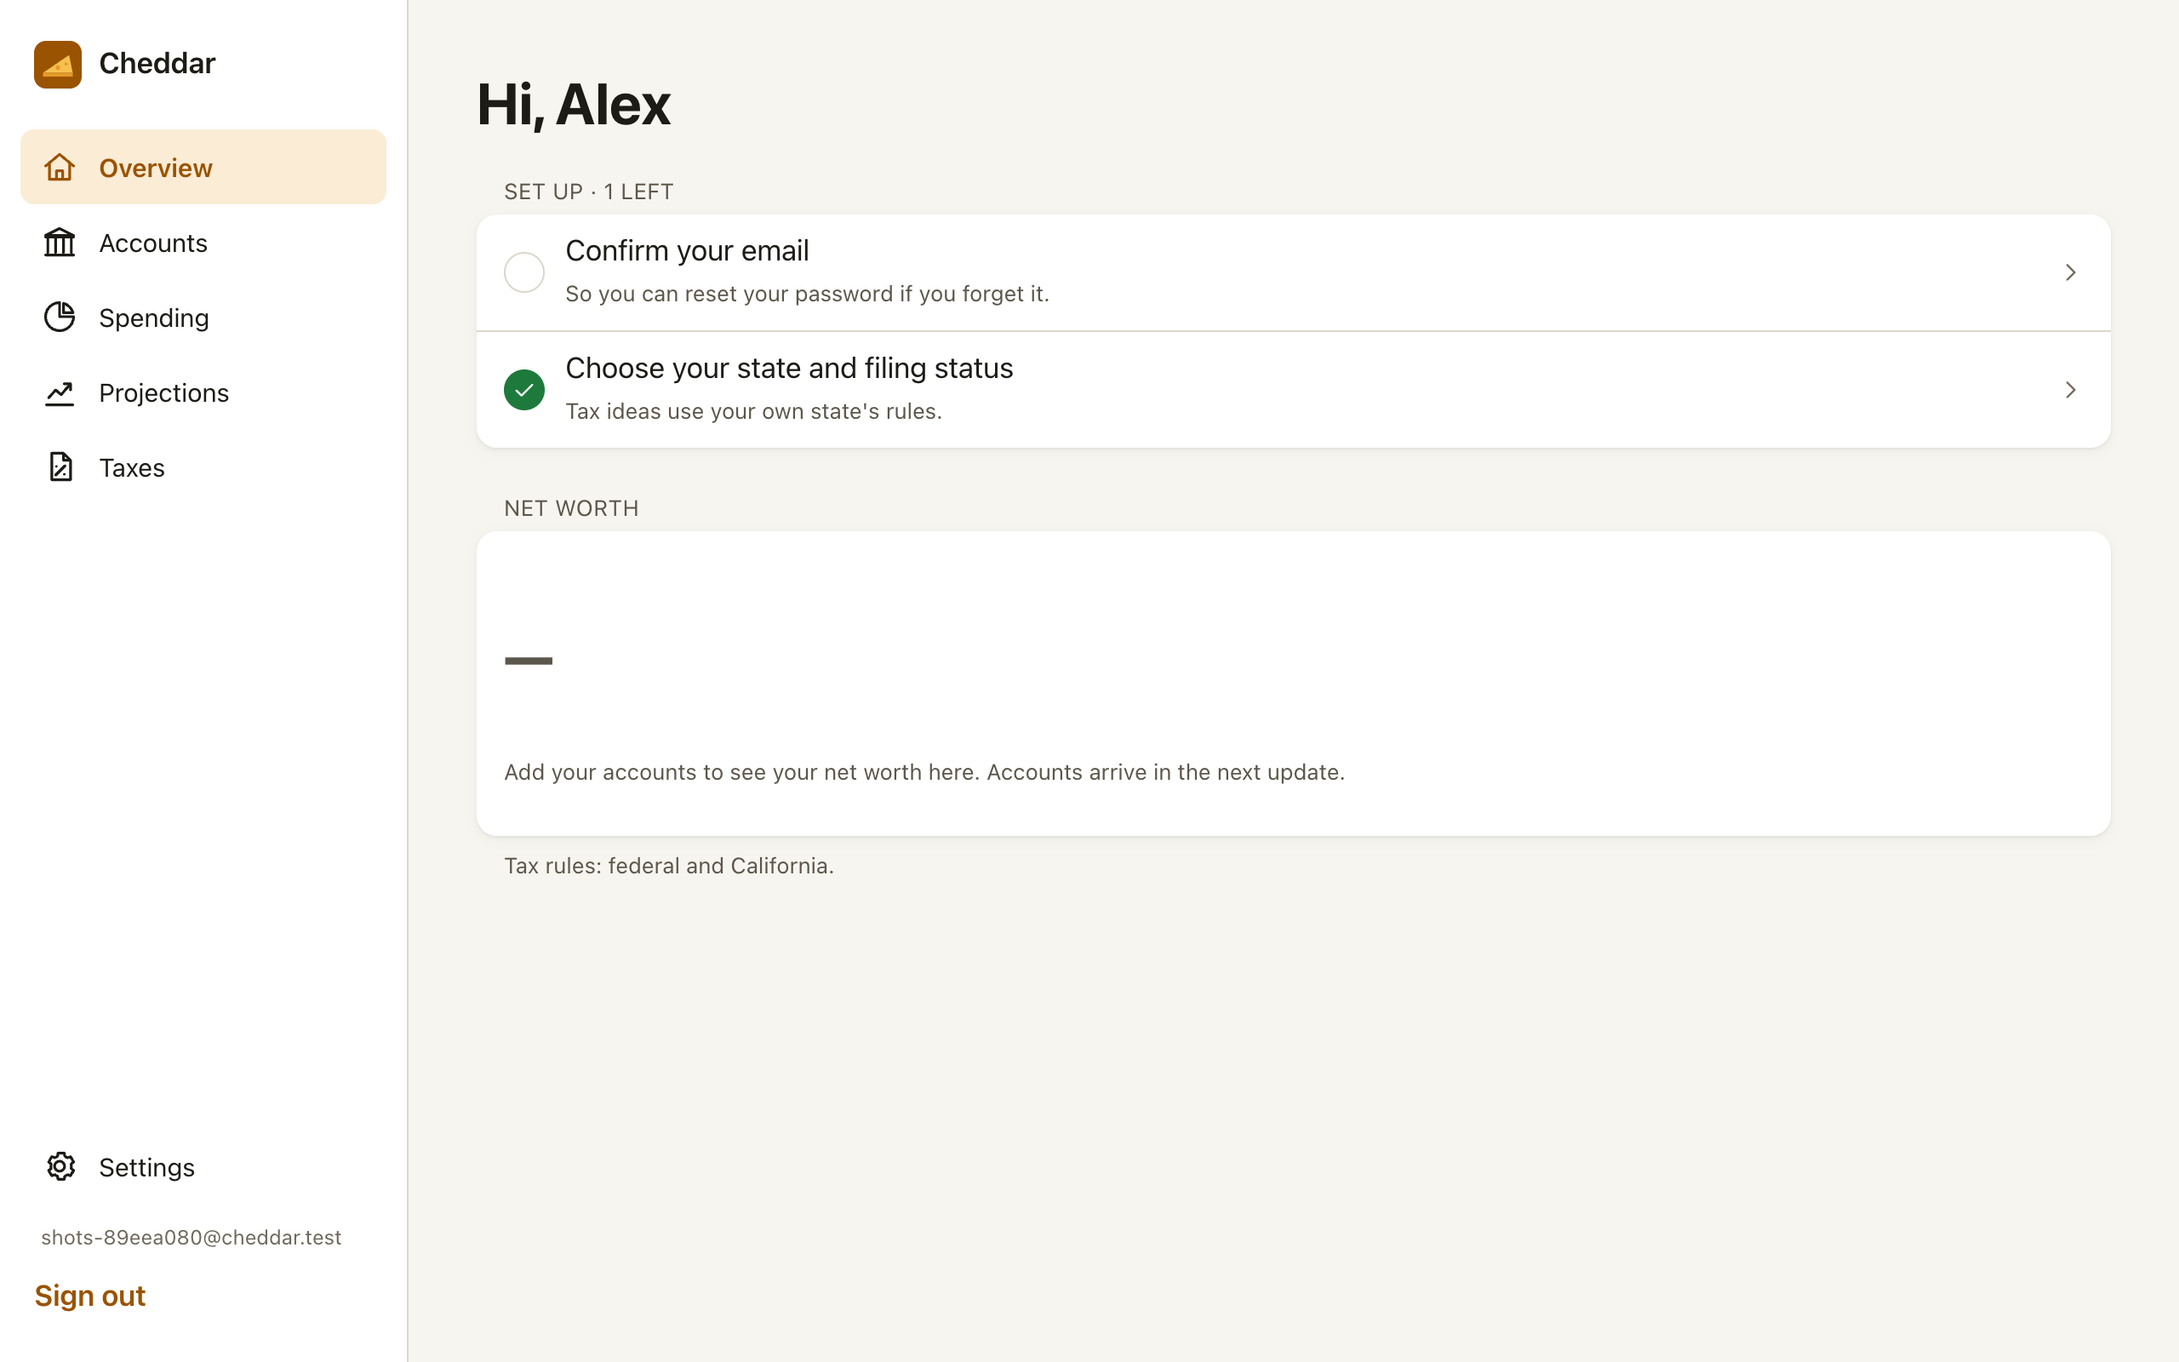
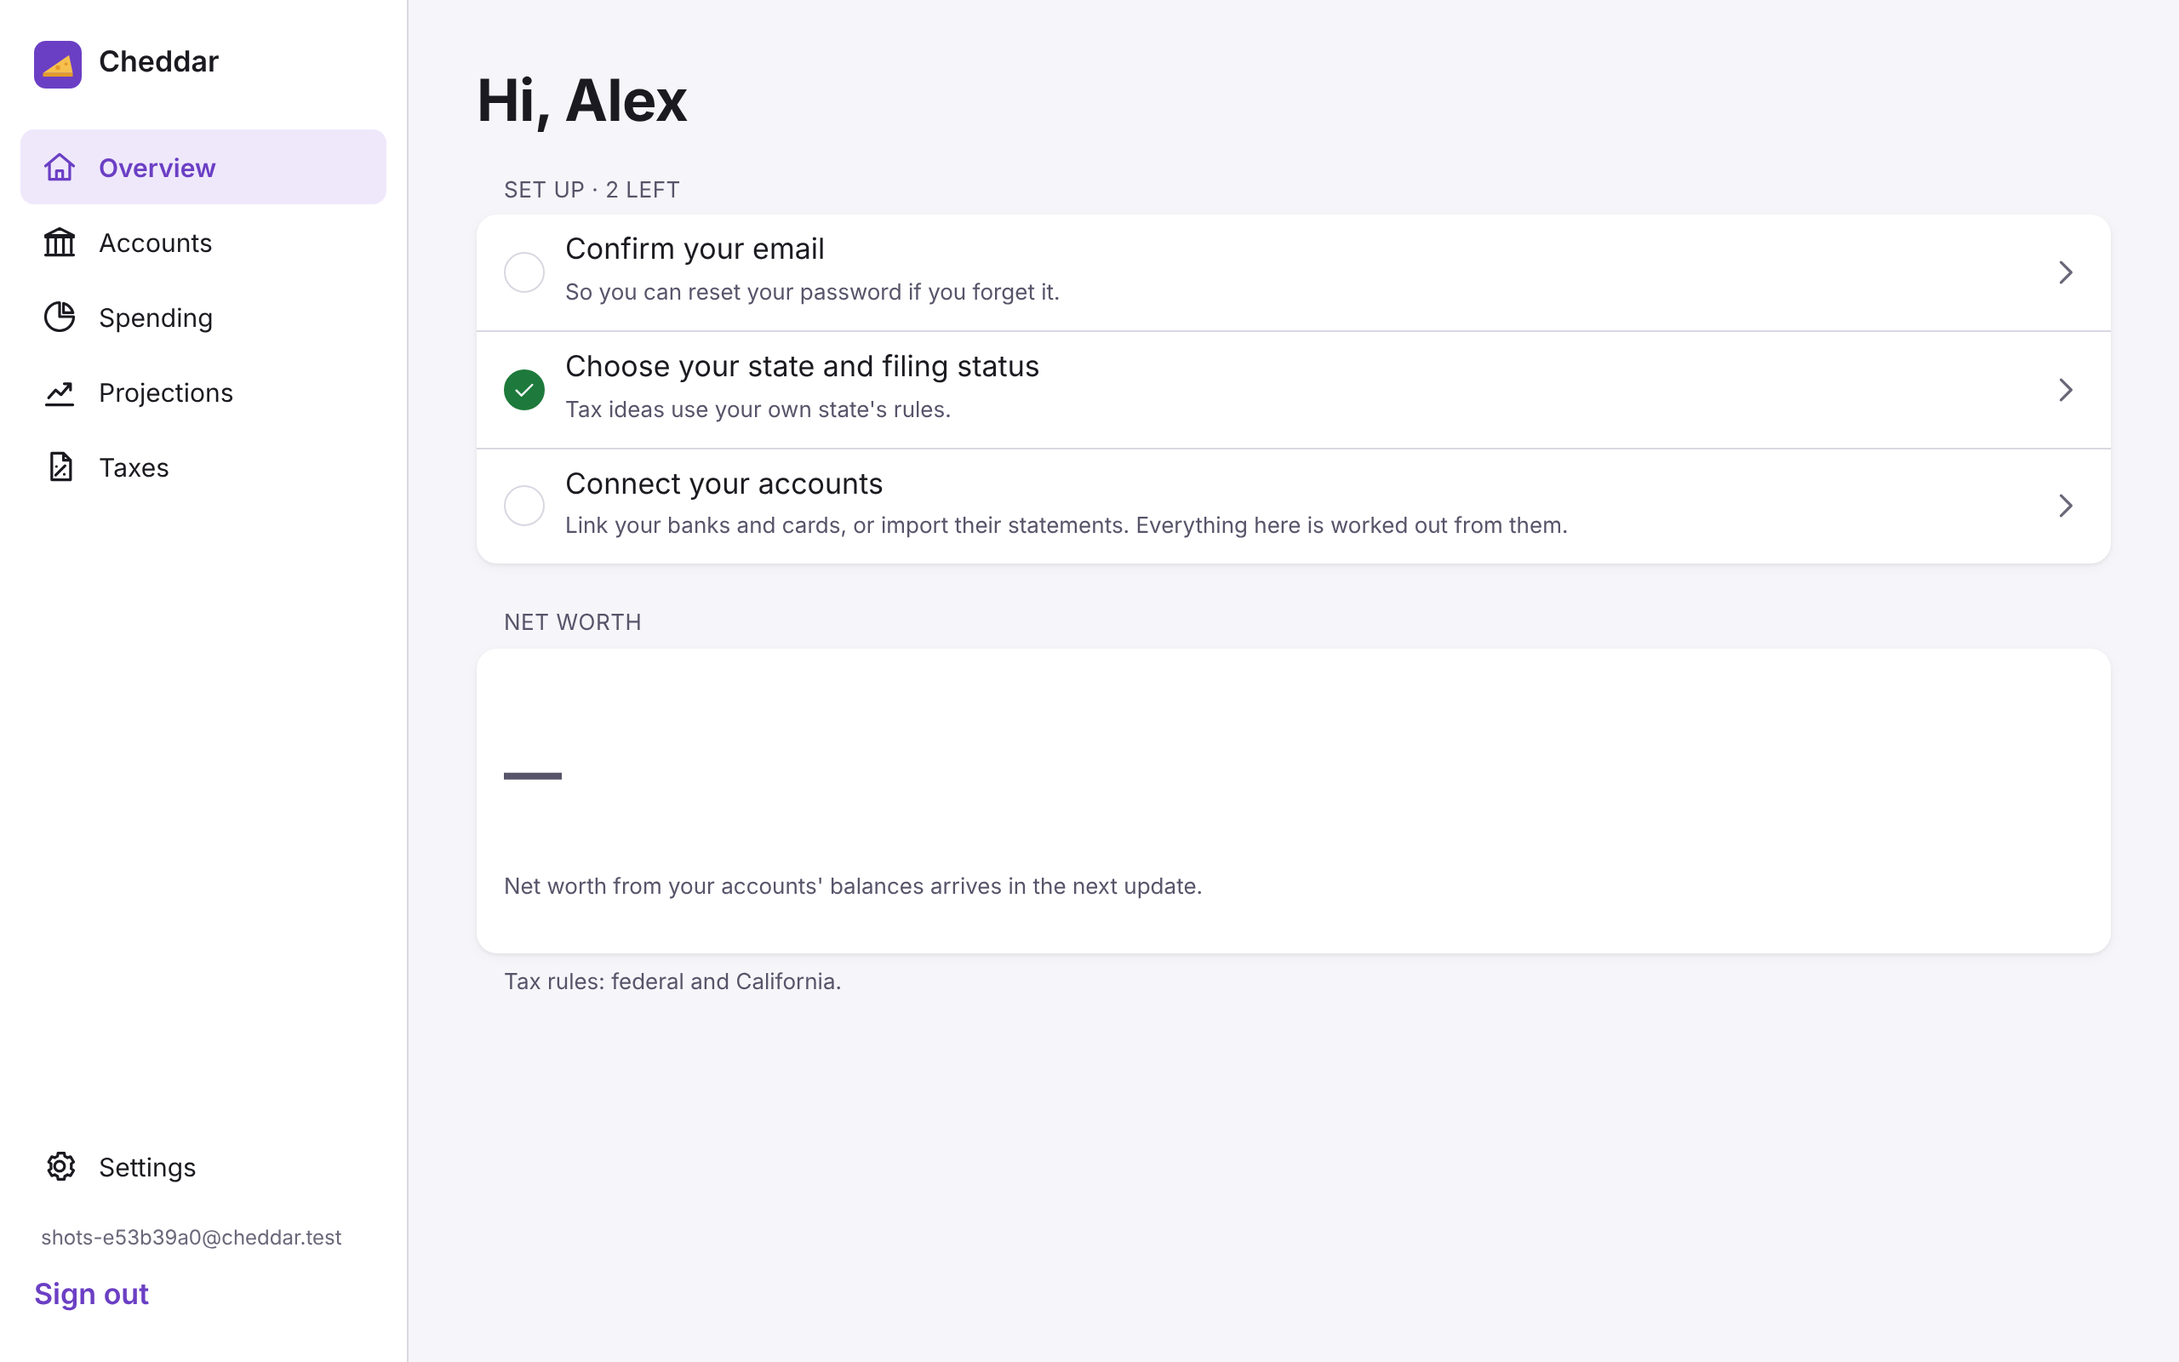
Switch the theme to violet, and let each person choose theme and light/dark (#14)
* Switch the theme from orange to violet

The accent, app icon tile and email buttons move from cheddar orange to a
violet (#6b3fc4 light, #b69cff dark) that sits apart from the red and green
of losses and gains. The warm neutrals become cool violet-greys to match.
Every text and accent pairing keeps at least 4.5:1 contrast in both modes.
Migration 0008 recolours the existing email templates.

Claude-Session: https://claude.ai/code/session_01GBPZ7fPvkqJNiJKyWXnBsk

* Let each person choose the theme and light or dark in Settings

Settings has a new Appearance section: Violet or Cheddar (the original
orange on warm greys), and Automatic, Light or Dark. Both are saved on the
user record (migration 0009), so every device matches, and the server's
render sets them on <html>, so nothing flashes. Each colour token is now a
light-dark() pair, so the appearance choice is just color-scheme. The logo
tile follows the theme. The segmented control moved to main.css for reuse.

Claude-Session: https://claude.ai/code/session_01GBPZ7fPvkqJNiJKyWXnBsk

---------

diff --git a/app/assets/css/main.css b/app/assets/css/main.css
@@ -5,55 +5,62 @@
  * use the tokens, never a literal.
  */
 
+/*
+ * Each token is light-dark(light, dark): the person's appearance setting
+ * (shared/theme.ts) sets color-scheme on <html>, and "system" leaves it to
+ * the device. Their colour theme is data-theme on <html>: violet is the
+ * default, cheddar the original orange on warm greys. Red and green (losses,
+ * gains) are the same in both. Every text pairing keeps 4.5:1 or more.
+ */
 :root {
   color-scheme: light dark;
 
-  --bg: #f7f5f0;            /* page ground (grouped background) */
-  --surface: #ffffff;       /* cards and grouped rows */
-  --surface-2: #efece4;     /* fills: inputs, pressed rows */
-  --separator: #dcd7cb;
-  --text: #1d1b16;
-  --text-2: #5c574b;        /* secondary labels */
-  --text-3: #6f695c;        /* tertiary: hints, placeholders */
-  --accent: #9a5300;        /* cheddar rind: links, tint, primary buttons */
-  --on-accent: #ffffff;
-  --accent-soft: #fbecd6;
-  --success: #1e7a3c;
-  --warning: #8a5a00;
-  --critical: #b3261e;
-  --on-critical: #ffffff;
-  --critical-soft: #fbe3e1;
-  --focus: #0a64d6;
+  --bg: light-dark(#f6f5f9, #141318);          /* page ground (grouped background) */
+  --surface: light-dark(#ffffff, #211f28);     /* cards and grouped rows */
+  --surface-2: light-dark(#ecebf1, #2d2a35);   /* fills: inputs, pressed rows */
+  --separator: light-dark(#d9d7e1, #3b3844);
+  --text: light-dark(#1b1a20, #f1eff6);
+  --text-2: light-dark(#58546a, #c1bdcc);      /* secondary labels */
+  --text-3: light-dark(#6b6779, #a39fb0);      /* tertiary: hints, placeholders */
+  --accent: light-dark(#6b3fc4, #b69cff);      /* links, tint, primary buttons */
+  --on-accent: light-dark(#ffffff, #1b1a20);
+  --accent-soft: light-dark(#efe8fb, #2e2547);
+  --mark-tile: #6b3fc4;                        /* the logo's tile (shared/mark.ts) */
+  --swatch-violet: light-dark(#6b3fc4, #b69cff); /* Settings' theme choice */
+  --swatch-cheddar: light-dark(#9a5300, #f2a93b);
+  --success: light-dark(#1e7a3c, #5ccf7f);
+  --warning: light-dark(#8a5a00, #e8b54a);
+  --critical: light-dark(#b3261e, #ff8a80);
+  --on-critical: light-dark(#ffffff, #1b1a20);
+  --critical-soft: light-dark(#fbe3e1, #3e1f22);
+  --focus: light-dark(#0a64d6, #6aa8ff);
 
   --radius: 12px;
   --radius-sm: 8px;
-  --shadow: 0 1px 2px rgb(0 0 0 / 6%), 0 2px 8px rgb(0 0 0 / 4%);
+  --shadow: 0 1px 2px light-dark(rgb(0 0 0 / 6%), transparent), 0 2px 8px light-dark(rgb(0 0 0 / 4%), transparent);
   --sidebar-w: 15rem;
   --tabbar-h: 3.25rem;
   --font: -apple-system, BlinkMacSystemFont, "SF Pro Text", "Segoe UI", Roboto, "Helvetica Neue", Arial, sans-serif;
   --font-num: ui-rounded, -apple-system, BlinkMacSystemFont, "SF Pro Rounded", var(--font);
 }
 
-@media (prefers-color-scheme: dark) {
-  :root {
-    --bg: #17150f;
-    --surface: #24211a;
-    --surface-2: #322e25;
-    --separator: #3e392e;
-    --text: #f3efe6;
-    --text-2: #c2bcae;
-    --text-3: #a59f91;
-    --accent: #f2a93b;
-    --on-accent: #1d1b16;
-    --accent-soft: #3b2c14;
-    --success: #5ccf7f;
-    --warning: #e8b54a;
-    --critical: #ff8a80;
-    --on-critical: #1d1b16;
-    --critical-soft: #3e1f1c;
-    --focus: #6aa8ff;
-    --shadow: none;
-  }
+:root[data-appearance="light"] { color-scheme: light; }
+:root[data-appearance="dark"] { color-scheme: dark; }
+
+:root[data-theme="cheddar"] {
+  --bg: light-dark(#f7f5f0, #17150f);
+  --surface: light-dark(#ffffff, #24211a);
+  --surface-2: light-dark(#efece4, #322e25);
+  --separator: light-dark(#dcd7cb, #3e392e);
+  --text: light-dark(#1d1b16, #f3efe6);
+  --text-2: light-dark(#5c574b, #c2bcae);
+  --text-3: light-dark(#6f695c, #a59f91);
+  --accent: light-dark(#9a5300, #f2a93b);
+  --on-accent: light-dark(#ffffff, #1d1b16);
+  --accent-soft: light-dark(#fbecd6, #3b2c14);
+  --mark-tile: #9a5300;
+  --on-critical: light-dark(#ffffff, #1d1b16);
+  --critical-soft: light-dark(#fbe3e1, #3e1f1c);
 }
 
 *, *::before, *::after { box-sizing: border-box; }
@@ -99,6 +106,14 @@ h1, h2, h3 { margin: 0; line-height: 1.2; }
   font-size: 0.8125rem; font-weight: 400; text-transform: uppercase;
   letter-spacing: 0.02em; color: var(--text-2);
 }
+/* A segmented control: buttons in a group, the chosen one aria-pressed. */
+.segmented { display: inline-flex; background: var(--surface-2); border-radius: var(--radius-sm); padding: 2px; }
+.seg {
+  min-height: 2.25rem; padding: 0.25rem 0.875rem; border: 0; border-radius: 6px;
+  font: inherit; font-size: 0.9375rem; background: none; color: var(--text); cursor: pointer;
+}
+.seg[aria-pressed="true"] { background: var(--surface); font-weight: 600; box-shadow: var(--shadow); }
+
 .group-footer { margin: 0.5rem 1rem 0; font-size: 0.8125rem; color: var(--text-2); }
 .card {
   background: var(--surface); border-radius: var(--radius); box-shadow: var(--shadow);

diff --git a/app/components/settings/SettingsAppearance.vue b/app/components/settings/SettingsAppearance.vue
@@ -1,0 +1,56 @@
+<script setup lang="ts">
+import type { Profile } from '~~/shared/profile'
+import { APPEARANCES, THEMES } from '~~/shared/theme'
+
+const { me } = useAuth()
+const { error, run } = useAction()
+
+/** Shows the choice at once, saves it, and puts the old one back if saving fails. */
+async function choose(change: Partial<Pick<Profile, 'theme' | 'appearance'>>) {
+  if (!me.value) return
+  const before = me.value
+  me.value = { ...before, ...change }
+  const r = await run(() => $fetch('/api/profile', { method: 'PATCH', body: change }))
+  if (r) me.value = r.me
+  else me.value = before
+}
+</script>
+
+<template>
+  <section class="group" aria-labelledby="appearance-title">
+    <h2 id="appearance-title" class="group-title">Appearance</h2>
+    <div class="card">
+      <div class="row">
+        <span id="theme-label" class="row-label">Color</span>
+        <div class="segmented" role="group" aria-labelledby="theme-label">
+          <button
+            v-for="t in THEMES" :key="t.value" type="button" class="seg"
+            :aria-pressed="me?.theme === t.value" @click="choose({ theme: t.value })"
+          >
+            <span class="swatch" :class="`swatch-${t.value}`" aria-hidden="true" />{{ t.label }}
+          </button>
+        </div>
+      </div>
+      <div class="row">
+        <span id="appearance-label" class="row-label">Light or dark</span>
+        <div class="segmented" role="group" aria-labelledby="appearance-label">
+          <button
+            v-for="a in APPEARANCES" :key="a.value" type="button" class="seg"
+            :aria-pressed="me?.appearance === a.value" @click="choose({ appearance: a.value })"
+          >
+            {{ a.label }}
+          </button>
+        </div>
+      </div>
+    </div>
+    <p v-if="error" class="notice notice-error" role="alert">{{ error }}</p>
+    <p class="group-footer">Saved to your account, so Cheddar looks the same on every device you sign in on. Automatic follows your device.</p>
+  </section>
+</template>
+
+<style scoped>
+.row { flex-wrap: wrap; gap: 0.5rem; }
+.swatch { display: inline-block; width: 0.75rem; height: 0.75rem; margin-right: 0.375rem; border-radius: 50%; vertical-align: -0.0625rem; }
+.swatch-violet { background: var(--swatch-violet); }
+.swatch-cheddar { background: var(--swatch-cheddar); }
+</style>

diff --git a/shared/profile.ts b/shared/profile.ts
@@ -1,11 +1,14 @@
 import { isFilingStatus, type FilingStatus } from './filing-status.ts'
 import { stateByCode } from './states.ts'
+import { isAppearance, isTheme, type Appearance, type Theme } from './theme.ts'
 
 /** What a person tells Cheddar about themselves; '' is "not chosen yet". */
 export interface Profile {
   name: string
   state: string
   filing_status: FilingStatus | ''
+  theme: Theme
+  appearance: Appearance
 }
 
 /** The signed-in person, as the browser is told about them. */
@@ -38,6 +41,14 @@ export function checkProfile(input: Record<string, unknown>): { ok: Partial<Prof
   if ('filing_status' in input) {
     if (input.filing_status !== '' && !isFilingStatus(input.filing_status)) return { problem: 'Choose a filing status.' }
     ok.filing_status = input.filing_status as FilingStatus | ''
+  }
+  if ('theme' in input) {
+    if (!isTheme(input.theme)) return { problem: 'Choose a color theme.' }
+    ok.theme = input.theme
+  }
+  if ('appearance' in input) {
+    if (!isAppearance(input.appearance)) return { problem: 'Choose light, dark or automatic.' }
+    ok.appearance = input.appearance
   }
   return { ok }
 }

diff --git a/shared/theme.ts b/shared/theme.ts
@@ -1,0 +1,25 @@
+/**
+ * How Cheddar looks for one person: a colour theme and light or dark. Both are
+ * saved on their account (users.theme, users.appearance), so every device
+ * they sign in on looks the same. '' on the record is the default.
+ * The colours themselves are in app/assets/css/main.css.
+ */
+export const THEMES = [
+  { value: 'violet', label: 'Violet' },
+  { value: 'cheddar', label: 'Cheddar' },
+] as const
+
+export const APPEARANCES = [
+  { value: 'system', label: 'Automatic' },
+  { value: 'light', label: 'Light' },
+  { value: 'dark', label: 'Dark' },
+] as const
+
+export type Theme = typeof THEMES[number]['value']
+export type Appearance = typeof APPEARANCES[number]['value']
+
+export const DEFAULT_THEME: Theme = 'violet'
+export const DEFAULT_APPEARANCE: Appearance = 'system'
+
+export const isTheme = (v: unknown): v is Theme => THEMES.some(t => t.value === v)
+export const isAppearance = (v: unknown): v is Appearance => APPEARANCES.some(a => a.value === v)

diff --git a/server/api/profile.patch.ts b/server/api/profile.patch.ts
@@ -2,11 +2,11 @@ import { updateProfile } from '~~/server/data/profile'
 import { attempt, sessionFor } from '~~/server/data/session'
 import { checkProfile, type Profile } from '~~/shared/profile'
 
-/** PATCH /api/profile { name?, state?, filing_status? }: the caller's own profile. */
+/** PATCH /api/profile { name?, state?, filing_status?, theme?, appearance? }: the caller's own profile. */
 export default defineEventHandler(async (event) => {
   assertSameOrigin(event)
   const s = sessionFor(event)
-  const body = await readFields<Profile>(event, ['name', 'state', 'filing_status'])
+  const body = await readFields<Profile>(event, ['name', 'state', 'filing_status', 'theme', 'appearance'])
   const checked = checkProfile(body)
   if ('problem' in checked) throw createError({ statusCode: 400, statusMessage: checked.problem })
   return { me: await attempt(() => updateProfile(s, checked.ok)) }

diff --git a/app/pages/spending.vue b/app/pages/spending.vue
@@ -316,12 +316,6 @@ const day = (ymd: string) => new Date(`${ymd}T12:00:00`).toLocaleDateString(unde
 .pager { justify-content: space-between; align-items: center; margin-top: 0.5rem; }
 
 .period { justify-content: space-between; flex-wrap: wrap; }
-.segmented { display: inline-flex; background: var(--surface-2); border-radius: var(--radius-sm); padding: 2px; }
-.seg {
-  min-height: 2.25rem; padding: 0.25rem 0.875rem; border: 0; border-radius: 6px;
-  font: inherit; font-size: 0.9375rem; background: none; color: var(--text); cursor: pointer;
-}
-.seg[aria-pressed="true"] { background: var(--surface); font-weight: 600; box-shadow: var(--shadow); }
 .stepper { display: inline-flex; align-items: center; gap: 0.25rem; }
 .when { min-width: 9.5rem; text-align: center; }
 .back { transform: rotate(180deg); }

diff --git a/nuxt.config.ts b/nuxt.config.ts
@@ -23,8 +23,8 @@ export default defineNuxtConfig({
         { rel: 'apple-touch-icon', href: '/icons/apple-touch-icon.png' },
       ],
       meta: [
-        { name: 'theme-color', content: '#F7F5F0', media: '(prefers-color-scheme: light)' },
-        { name: 'theme-color', content: '#17150F', media: '(prefers-color-scheme: dark)' },
+        { name: 'theme-color', content: '#F6F5F9', media: '(prefers-color-scheme: light)' },
+        { name: 'theme-color', content: '#141318', media: '(prefers-color-scheme: dark)' },
         { name: 'mobile-web-app-capable', content: 'yes' },
         { name: 'apple-mobile-web-app-capable', content: 'yes' },
         { name: 'apple-mobile-web-app-title', content: 'Cheddar' },

diff --git a/app/app.vue b/app/app.vue
@@ -1,5 +1,17 @@
 <script setup lang="ts">
-useHead({ titleTemplate: title => (title ? `${title} · Cheddar` : 'Cheddar') })
+import { DEFAULT_APPEARANCE, DEFAULT_THEME } from '~~/shared/theme'
+
+const { me } = useAuth()
+
+// The person's own theme and light or dark (Settings, Appearance); signed
+// out, the defaults. Set on <html> in the server's render, so nothing flashes.
+useHead({
+  titleTemplate: title => (title ? `${title} · Cheddar` : 'Cheddar'),
+  htmlAttrs: {
+    'data-theme': () => me.value?.theme ?? DEFAULT_THEME,
+    'data-appearance': () => me.value?.appearance ?? DEFAULT_APPEARANCE,
+  },
+})
 </script>
 
 <template>

diff --git a/nginx/unavailable.html b/nginx/unavailable.html
@@ -14,9 +14,9 @@
   <meta name="color-scheme" content="light dark">
   <title>Back in a moment · Cheddar</title>
   <style>
-    :root { --ground: #f7f5f0; --card: #ffffff; --text: #1d1b16; --muted: #5c574b; --border: #dcd7cb; }
+    :root { --ground: #f6f5f9; --card: #ffffff; --text: #1b1a20; --muted: #58546a; --border: #d9d7e1; }
     @media (prefers-color-scheme: dark) {
-      :root { --ground: #17150f; --card: #24211a; --text: #f3efe6; --muted: #c2bcae; --border: #3e392e; }
+      :root { --ground: #141318; --card: #211f28; --text: #f1eff6; --muted: #c1bdcc; --border: #3b3844; }
     }
     * { box-sizing: border-box; }
     body {

diff --git a/server/data/profile.ts b/server/data/profile.ts
@@ -1,5 +1,6 @@
 import type { RecordModel } from 'pocketbase'
 import type { Me, Profile } from '~~/shared/profile'
+import { DEFAULT_APPEARANCE, DEFAULT_THEME, isAppearance, isTheme } from '~~/shared/theme'
 import { callerId, type Session } from './session'
 
 export function toMe(r: RecordModel): Me {
@@ -11,6 +12,8 @@ export function toMe(r: RecordModel): Me {
     name: r.name ?? '',
     state: r.state ?? '',
     filing_status: r.filing_status ?? '',
+    theme: isTheme(r.theme) ? r.theme : DEFAULT_THEME,
+    appearance: isAppearance(r.appearance) ? r.appearance : DEFAULT_APPEARANCE,
   }
 }
 

diff --git a/app/components/app/AppMark.vue b/app/components/app/AppMark.vue
@@ -4,7 +4,8 @@ import { MARK_COLOURS as C, WEDGE } from '~~/shared/mark'
 
 <template>
   <svg viewBox="0 0 32 32" width="28" height="28" aria-hidden="true">
-    <rect width="32" height="32" rx="8" :fill="C.tile" />
+    <!-- The tile follows the person's colour theme; the icon files use C.tile. -->
+    <rect width="32" height="32" rx="8" :fill="C.tile" style="fill: var(--mark-tile)" />
     <path v-for="p in WEDGE.paths" :key="p.d" :d="p.d" :fill="C[p.fill]" />
     <circle v-for="h in WEDGE.holes" :key="h.cx" :cx="h.cx" :cy="h.cy" :r="h.r" :fill="C[h.fill]" />
   </svg>

diff --git a/shared/mark.ts b/shared/mark.ts
@@ -2,7 +2,7 @@
  * Cheddar's mark, a wedge of cheese, on a 32-unit grid: drawn by AppMark in
  * the app and by scripts/make-icons.mjs for the favicon and Home Screen icons.
  */
-export const MARK_COLOURS = { tile: '#9a5300', cheese: '#f6c04f', rind: '#e39a2a' }
+export const MARK_COLOURS = { tile: '#6b3fc4', cheese: '#f6c04f', rind: '#e39a2a' }
 
 /** The wedge: its faces as paths and its holes as circles, each with its colour's name. */
 export const WEDGE = {
